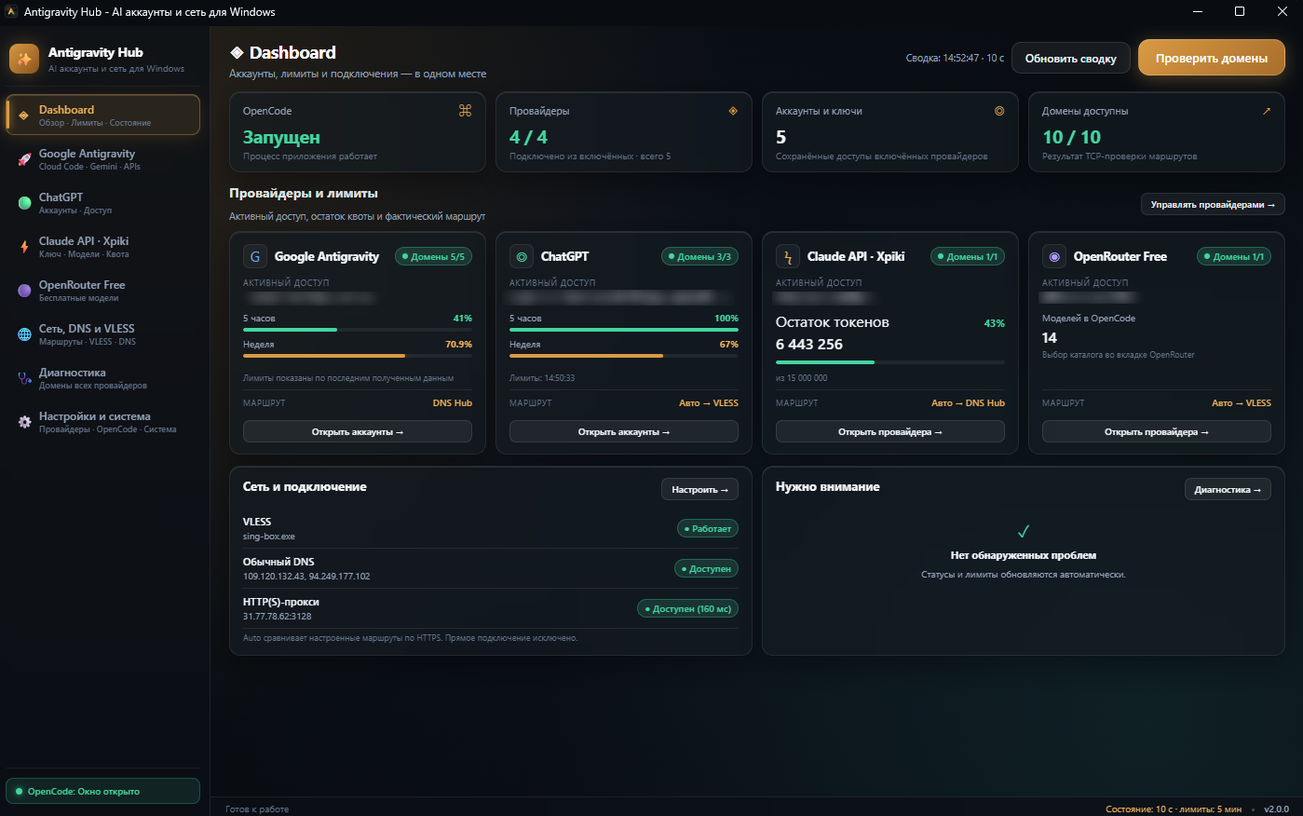
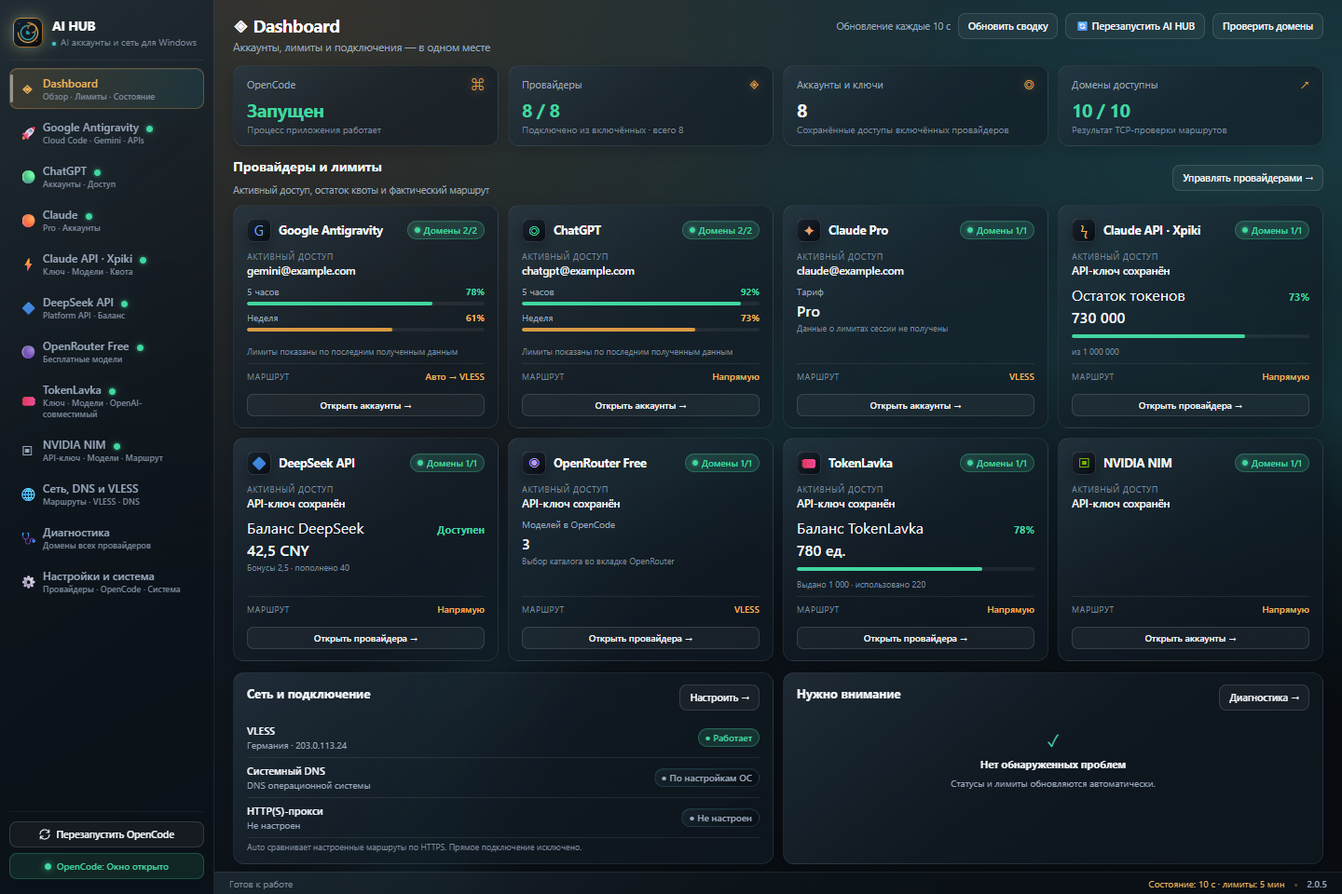
docs: refresh AI HUB overview and dashboard screenshot

diff --git a/README.md b/README.md
@@ -1,350 +1,50 @@
-# AI HUB — шлюз провайдеров для OpenCode (V2)
+# AI HUB для OpenCode 2.x
 
-Универсальный шлюз-модуль и графический центр управления (**AI HUB**) для [OpenCode 2.x](https://github.com/anomaly/opencode). Объединяет доступ к передовым нейросетям через несколько провайдеров, поддерживает пулы аккаунтов с авто-ротацией, веб-сессии без API-ключей, встроенное VLESS-туннелирование и раздельный мониторинг лимитов. Приложение позволяет подключать сторонние провайдеры к OpenCode: Google, OpenAI, Claude, Xpiki, OpenRouter, TokenLavka, NVIDIA NIM и другие OpenAI-совместимые шлюзы — через единый графический интерфейс.
+AI HUB — приложение для Windows, в котором можно подключать AI-провайдеров к OpenCode, переключать аккаунты, смотреть лимиты и проверять сетевые маршруты.
 
-<p align="center">
-  <img src="docs/dashboard.png" alt="AI HUB Dashboard" width="900" />
-</p>
+![Главное окно AI HUB с карточками провайдеров и состоянием сети](docs/dashboard.png)
 
----
+*Актуальный интерфейс с демонстрационными данными.*
 
-## 🌟 Ключевые возможности
+## Установка
 
-### 1. 🚀 Google Antigravity (OAuth & Multi-Account Pool)
-- **Модели нового поколения:** Google Gemini 4 Hydrogen, Gemini 4 Argon, Gemini 3.8 Flash, Claude Sonnet 4.6 Thinking, Claude 5.5 и другие модели Cloud Code. Устаревшие и отключённые Google модели (3.1, 3.5, 3.6, 3.7) автоматически фильтруются.
-- **Пул Google-аккаунтов:** Добавляйте неограниченное количество аккаунтов Google с автоматическим переключением при исчерпании квот (Rate Limit 429). Мгновенное обновление статуса аккаунтов в интерфейсе.
-- **Раздельный учет лимитов:** Наглядная индикация двух типов квот:
-  - 🟢 **Зеленый индикатор** — текущая 5-часовая скользящая квота (краткосрочный лимит).
-  - 🟠 **Оранжевый индикатор** — недельная суммарная квота аккаунта.
-- **Защита от истощения пула:** Если подключён только один Google-аккаунт, плагин интеллектуально ожидает сброса лимита до 60 секунд вместо немедленной остановки работы.
-- **Интерактивная диагностика:** Встроенная проверка здоровья моделей (Model Health Checker) прямо из Hub с выявлением скрытых ошибок потоковой передачи и диагностикой маршрутов.
-- **Умные патчи стабильности:**
-  - Защита от бесконечного цикла повторов при ошибке 404 — немедленный возврат оригинального ответа Google.
-  - Автоматическая фиксация модели именования сессий `opencode/big-pickle` (`small_model` и `agent.title.model`), предотвращающая сбои из-за недоступных моделей Gemini 3.5.
-  - Патчи потоковой передачи и совместимости терминала (Gemini 3.8 / SSE / TTY).
-- **Поддержка современных версий OpenCode:** Совместимость со всеми релизами линейки 2.x, включая структуру установки OpenCode 2.2.0 (`ai.opencode.desktop`).
+**Windows 10/11 x64:** скачайте `AntigravityHub-Setup-x64.exe` со страницы [последнего релиза](https://github.com/ZLoBNbIY/Opencode-antigravity-module/releases/latest). Установщик не подписан; рядом опубликован SHA‑256 для проверки файла. Git, Python и Node.js не нужны. [OpenCode 2.x](https://opencode.ai/) устанавливается отдельно.
 
-### 2. 🟢 OpenAI / ChatGPT (Многоаккаунтный пул и вход через браузер)
-- **Прямой вход в 1 клик:** Авторизация через браузер без необходимости вручную извлекать и обновлять сессионные токены.
-- **Пул аккаунтов ChatGPT:** Добавление нескольких аккаунтов OpenAI с отображением email, мгновенным переключением активного профиля и синхронизацией с OpenCode.
-- **Интеграция с официальным провайдером:** Запросы транслируются напрямую в OpenCode с поддержкой последних моделей GPT.
+<details>
+<summary>Запуск из исходников</summary>
 
-### 3. 🟠 Claude Code / Pro & Team (Подписка без API-токенов)
-- **Прямой бридж веб-подписки:** Используйте возможности платной подписки Claude Pro или Claude Team в OpenCode без необходимости покупать дорогие токены Anthropic API.
-- **Локальный мост (Claude Bridge):** Поднимает локальный шлюз (`http://127.0.0.1:51186`), который преобразует запросы OpenCode в сессионные запросы `claude.ai`.
-- **Вход в 1 клик и тихий рефреш:** Автоматический вход через браузер с мгновенным извлечением cookie `sessionKey` и фоновым обновлением сессии. Автоматическое закрытие окна сессии при ошибках рефреша. Также поддерживается ручной ввод токена.
-- **Безопасная авторизация через VLESS:** Предупреждение перед открытием окна авторизации при выключенном VLESS для защиты от геоблокировок Cloudflare/Anthropic. Возможность запустить браузер входа через изолированный прокси-туннель.
-- **Claude Kill Switch:** Специализированный механизм блокировки запросов в случае обрыва туннеля для предотвращения утечки реального IP и бана аккаунта.
-- **Интеграция с Claude Code CLI:** Быстрый запуск `claude setup-token` прямо из интерфейса Hub.
-
-### 4. ⚡ Claude API (Xpiki Gateway)
-- **Выделенный провайдер Xpiki:** Готовая интеграция со сторонним шлюзом Claude API (`api.xpiki.com`).
-- **Модели:** `claude-opus-5`, `claude-opus-4-8`, `claude-opus-4-7`, `claude-sonnet-5`, `claude-sonnet-4-6`, `claude-haiku-4-5`, `claude-fable-5`.
-- **Живая карточка квот:** Отображение баланса, доступных кредитов, остатка запросов и времени до ежедневного сброса лимитов в реальном времени.
-- **Конфигурация в 1 клик:** Мгновенное добавление провайдера и выбранных моделей в конфигурацию OpenCode.
-
-### 5. 🟣 OpenRouter Free
-- **Бесплатные модели:** Подключение открытых бесплатных моделей из каталога OpenRouter по вашему бесплатному API-ключу.
-- **Выборочный каталог:** Выбирайте только нужные модели, исключая захламление списка в OpenCode.
-
-### 6. 🎟 TokenLavka (OpenAI-совместимый шлюз)
-- **Один ключ на все модели:** Claude, GPT, Gemini, Grok, DeepSeek, Kimi, Qwen и GLM через `https://tokenlavka.com/v1`.
-- **Проверка ключа:** валидация через `GET /v1/models` с понятными сообщениями об ошибках (401/402/429).
-- **Выборочный каталог:** статический список моделей шлюза, отметка нужных и добавление в OpenCode в один клик.
-- **Изолированный провайдер:** `tokenlavka/…` через `@ai-sdk/openai-compatible`, не заменяет встроенные провайдеры OpenCode.
-
-### 7. 🌐 Сеть: Автовыбор маршрута (Auto), VLESS и глубокая диагностика
-- **Умный автовыбор маршрута (AutoRouter):** Измерение доступности и задержки для каждого провайдера по отдельности (Google, OpenAI, Claude, Xpiki, OpenRouter). Система автоматически отбирает самый быстрый рабочий сетевой путь и переключается на резервный при сбоях без использования прямого подключения.
-- **Углубленная проверка API и генерации (Deep Probe) в 1 клик:**
-  - Специальные ручные кнопки (`⚡ Проверить генерацию` для Google, `⚡ Проверить сессию` для ChatGPT/Claude, `⚡ Проверить ключ` для Xpiki/OpenRouter) на карточках провайдеров и вкладке «Диагностика».
-  - Позволяют мгновенно выявить скрытые проблемы реального ответа моделей: ошибку `HTTP 400 Region not supported` у Google, геоблокировку датацентров, исчерпание лимитов запросов на IP-адрес (`429 Rate Limit`), недействительные сессии или блокировки Cloudflare.
-  - Запускаются **исключительно вручную**, исключая фоновый расход токенов.
-- **Поканальная маршрутизация (Per-Provider Routing):** Раздельная настройка сетевого пути для каждого провайдера (Google, Claude, OpenAI, Xpiki, DeepSeek API, OpenRouter): Auto, VLESS, внешний прокси, DNS-прокси Hub или прямое подключение.
-- **Баланс DeepSeek Platform API:** Вкладка DeepSeek в Hub хранит `sk-` ключ в защищённом хранилище и показывает остаток средств, бонусы и пополнения через официальный `GET /user/balance`. Баланс обновляется каждые 5 минут, при ошибке сохраняется последнее известное значение (без выдуманных лимитов). Ниже строится график расхода денег и токенов по локальной базе OpenCode за 7/14/30 дней; деньги считаются по официальному тарифу DeepSeek в валюте баланса. Подробнее — [docs/deepseek.md](docs/deepseek.md).
-- **Встроенный туннель VLESS:** Поддержка Xray-core и sing-box. На Windows x64 Hub загружает зафиксированные версии из официальных релизов по HTTPS и проверяет SHA-256. На других платформах укажите путь к ядру, проверенному вручную.
-- **Изоляция сетевых портов:** Использование выделенных локальных портов (`20809` HTTP, `20808` SOCKS5 по умолчанию; также поддерживаются `10879`/`10878`) для полного исключения конфликтов с браузерными расширениями и другими VPN-клиентами.
-- **Управление ядрами:** Hub останавливает только запущенный им дочерний процесс. Если порт занят, выберите другой порт или самостоятельно остановите процесс, которому он принадлежит.
-- **Безопасный DNS и готовые Smart DNS пресеты:** Тестирование и быстрое переключение защищённых серверов в 1 клик:
-  - **DNS-AI (`dns-ai.ru`)** — специализированный Smart DNS для работы с AI в РФ и РБ (`https://dns.dns-ai.ru/dns-query`, `194.87.196.13`);
-  - **MagicDNS (`magicdns.ru`)** — высокоскоростной Smart DNS для ИИ к Gemini, ChatGPT и Claude (`https://dns.magicdns.ru/dns-query`, `109.120.132.43`);
-  - **Bezmezhau (`bezmezhau.com`)**;
-  - **Cloudflare**, **Google**, **Quad9**.
-- **Обновления Hub:** Репозиторий обновляется только при чистом рабочем дереве и возможности fast-forward. Скрипты из полученной версии не запускаются автоматически. Подписи коммитов не проверяются — просмотрите изменения до запуска обновлённой версии.
-
-### 7. 🎨 Графический менеджер AI HUB
-- **Дизайн Frosted Glass (Вариант №3):** Премиальный тёмный интерфейс с аппаратным матовым стеклом (`backdrop-filter: blur(40px)`), глубоким графитовым фоном и янтарно-бирюзовыми неоновыми ореолами (aurora glow), работающий на нативном движке WebView2 (Edge Chromium).
-- **Компактный адаптивный Dashboard:** Вся ключевая информация (метрики системы, карточки провайдеров, статусы сети и внимания) оптимизирована и полностью помещается в окно без вертикальной прокрутки.
-- **Полноценная индикация лимитов:**
-  - 🟢 **Gemini (5 часов)** — изумрудный индикатор скользящей квоты.
-  - 🟠 **Gemini (Неделя)** — контрастный янтарный индикатор недельного лимита.
-  - 🔷 **Claude Opus / Sonnet в Google Antigravity** — раздельный мониторинг квот для моделей Claude (Opus / Sonnet) с бирюзовой и фиолетовой подсветкой.
-  - ⚡ **Claude API (Xpiki)** — шкала прогресса и процент остатка токенов прямо на дашборде и во вкладке провайдера.
-- **Пул HTTP(S)-прокси с авторотацией (Failover):** Поддержка добавления нескольких внешних прокси в общий пул с открытым отображением адреса, автоматической проверкой доступности, измерением пинга и мгновенным переключением на следующий узел при сбое.
-- **Интеграция с Windows:**
-  - Фирменная тёмная иконка AI HUB на Рабочем столе и в панели задач (без дефолтной иконки Python).
-  - Тёмный заголовок окна под цвет интерфейса (без белой системной полосы).
-  - Сворачивание в системный трей вместо выхода при клике на крестик окна (с настройкой поведения в меню).
-  - Автоматический запуск AI HUB при входе в Windows (переключатель в «Настройках и система», запись HKCU → Run без прав администратора).
-  - Проверка обновлений на GitHub и обновление чистого клона без принудительного сброса.
-- **Единое изолированное хранилище (%APPDATA%\AntigravityHub):** Все изменяемые данные приложения (аккаунты, VLESS-ядра, логи, токены, профили браузеров) собраны в одном изолированном каталоге.
-- **Встроенный центр очистки и полного удаления:** В разделе «Настройки и система» доступен мониторинг занятого места на диске, открытие папки в Проводнике, очистка кэша/логов, сброс сессий браузера и кнопка безопасного полного удаления Hub (не затрагивает OpenCode и историю чатов).
-- **Восстановление патча плагина в 1 клик:** кнопка «Применить фикс плагина» в «Настройки и система» заново накладывает фикс ложного `429` Cloud Code (Code Mode) и маршрутизацию Hub после обновления OpenCode или плагина Antigravity — без полной переустановки.
-- **Резервное копирование и перенос на другой ПК:** Hub экспортирует поддерживаемые аккаунты и сетевые настройки в зашифрованный файл с паролем. Данные сторонних плагинов и самого OpenCode не входят в резервную копию автоматически.
-
----
-
-## 🛠 Как это работает
-
-```
-  ┌─────────────────────────────────────────────────────────┐
-  │                       OpenCode                          │
-  └───────────────────────────┬─────────────────────────────┘
-                              │
-                    Плагин Antigravity V2
-                              │
-        ┌─────────────────────┼─────────────────────┐
-        ▼                     ▼                     ▼
-┌──────────────┐      ┌──────────────┐      ┌──────────────┐
-│Google/OpenAI │      │    Claude    │      │   Сторонние  │
-│ Antigravity  │      │ Subscription │      │     API      │
-│ Account Pool │      │ Bridge:51186 │      │   (Xpiki /   │
-│      │       │      │              │      │  OpenRouter) │
-└──────┼───────┘      └───────┬──────┘      └──────┬───────┘
-       ▼                      │                    │
-┌──────────────┐              │                    │
-│Hub Dispatcher│              │                    │
-│ 127.0.0.1:   │              │                    │
-│    10880     │              │                    │
-└──────┬───────┘              │                    │
-       │                      │                    │
-       └──────────────────────┼────────────────────┘
-                              ▼
-                ┌───────────────────────────┐
-                │   Поканальная маршрутизация│
-                 │(VLESS / Proxy / Direct)  │
-                └───────────────────────────┘
-```
-
-1. **Плагин OpenCode (`plugin/dist/`):** Интегрируется в среду выполнения OpenCode, перехватывает запросы к выбранным моделям и направляет их через соответствующий бэкенд. Включает патчи против зацикливания при ошибках 404, поддержку TTY/SSE и авто-фиксацию модели заголовков `opencode/big-pickle`.
-2. **Ротация аккаунтов Google:** При получении статуса `429 Too Many Requests` плагин мгновенно переключает рабочий контекст на следующий свободный аккаунт из пула `antigravity.json`. Если подключён один аккаунт — интеллектуально ожидает восстановления квоты (до 60 секунд).
-3. **Диспетчер Hub (`127.0.0.1:10880`):** Запросы к Google Cloud Code API транслируются через локальный диспетчер Hub. Сетевой путь для Google можно настроить независимо от остальных сервисов: напрямую, через туннель VLESS, внешний HTTP-прокси или DNS-прокси Hub.
-4. **Claude Subscription Bridge:** Для пользователей Claude Pro/Team поднимается локальный сервер на порту `51186`. Он принимает сообщения формата OpenAI/Anthropic и перенаправляет их в веб-сессию Claude. Поддерживаются Claude Kill Switch и предупреждение при запуске без VLESS.
-5. **VLESS & Сетевая изоляция:** Встроенный менеджер контролирует только собственный изолированный дочерний процесс Xray/sing-box и использует выделенные порты (`20809` HTTP, `20808` SOCKS5 / `10879`, `10878`), что исключает конфликты с браузерными расширениями и другими VPN-клиентами. Сторонние системные процессы ядра никогда не завершаются. Проверка и скачивание обновлений Hub с GitHub выполняются всегда напрямую через системную сеть в обход прокси.
-
----
-
-## 📦 Установка
-
-### Windows
-
-**Готовый установщик (Windows 10/11 x64):** скачайте `AntigravityHub-Setup-x64.exe` со страницы [Releases](https://github.com/ZLoBNbIY/Opencode-antigravity-module/releases), когда он опубликован, и запустите двойным щелчком. Git, Python, Node.js и PowerShell пользователю не нужны. WebView2 устанавливается автоматически, если отсутствует (в этом случае нужен интернет). Сам OpenCode устанавливается отдельно.
-
-После успешной сборки и теста установки каждый пуш в `V2` автоматически публикует следующий патч-релиз (`v2.0.1`, `v2.0.2`, …) с установщиком и файлом SHA‑256.
-
-Установленная копия запускается из меню «Пуск» и не зависит от Git-клона. Для обновления используйте новый `Setup.exe`; для удаления — «Установленные приложения» Windows. Деинсталляция сохраняет аккаунты Hub и настройки OpenCode.
-
-### Windows — установка из исходников
-
-Получите локальную копию проекта из доверенного источника, проверьте ревизию и просмотрите установщик перед его запуском. Не передавайте скачанный скрипт напрямую в `iex`.
-
-Установщик:
-- **Интеллектуальная проверка Python 3:** Функция глубокого сканирования `Get-PythonEnvironment` отсекает фиктивную заглушку Microsoft Store (`WindowsApps\python.exe`, вызывающую ошибку 9009), опрашивает лаунчер `py`, проверяет стандартные каталоги (`Programs\Python`, `Program Files`, `C:\Python3*`) и при необходимости временно прописывает путь к Python в текущую сессию.
-- **Диагностика и рекомендации:** Если Python не установлен, установщик не падает, а выводит понятное сообщение с прямой ссылкой на загрузку (`https://www.python.org/downloads/`), командой для терминала `winget install Python.Python.3.12` и напоминанием включить галочку **«Add python.exe to PATH»**.
-- **Node.js:** Для проверки патчей требуется Node.js 20+. Установщик может предложить установку через WinGet; не загружает MSI напрямую.
-- **Конфигурация OpenCode:** Установщик создаёт недостающие конфиги, но не перезаписывает существующие `opencode.json` или `opencode.jsonc`. Сверьте существующую конфигурацию с шаблоном и добавьте нужные настройки вручную.
-- **Зависимости Python:** Для Windows x64 с CPython 3.12 используется lock-файл с контрольными суммами. Другие платформы пока используют обычный список зависимостей; lock-файл также не фиксирует изолированные сборочные зависимости исходных пакетов.
-- **Ярлык запуска:** Создает удобный ярлык на рабочем столе **AI HUB**.
-
-### Windows — из клонированного репозитория
+Понадобятся Git, Python 3.12 и Node.js 20+.
 
 ```powershell
 git clone -b V2 https://github.com/ZLoBNbIY/Opencode-antigravity-module.git
 cd Opencode-antigravity-module
-powershell -ExecutionPolicy Bypass -File .\install.ps1
+.\install.bat
 ```
 
-*(Также доступен скрипт `install.bat` с автоматическим переходом на PowerShell и валидацией окружения).*
+Сборка своего установщика: [инструкция](packaging/windows/README.md).
 
-### Linux / macOS
+</details>
 
-```bash
-git clone -b V2 https://github.com/ZLoBNbIY/Opencode-antigravity-module.git
-cd Opencode-antigravity-module
-chmod +x install.sh
-./install.sh
-```
+## Провайдеры
 
-### Перенос совместимости на другой ПК
+| Провайдер | Что доступно |
+| --- | --- |
+| Google Antigravity | OAuth, пул аккаунтов, переключение при исчерпании квоты, мониторинг лимитов |
+| OpenAI / ChatGPT | Вход через браузер, переключение аккаунтов, синхронизация с OpenCode, лимиты подписки |
+| Claude Pro / Team | Локальный мост для веб-подписки `claude.ai` |
+| Xpiki | Модели Claude через API и мониторинг квоты |
+| OpenRouter Free | Выбор бесплатных моделей из каталога |
+| [DeepSeek](docs/deepseek.md) | API, баланс платформы и график расходов по данным OpenCode |
+| [TokenLavka](docs/tokenlavka.md) | Выбор моделей шлюза и остаток баланса |
+| [NVIDIA NIM](docs/nvidia-nim.md) | Подключение API-ключа и выбор моделей |
 
-Все патчи тела/заголовков Antigravity лежат в репозитории и применяются
-отдельным скриптом. На другом ПК достаточно:
+Откройте вкладку провайдера, добавьте аккаунт или ключ, затем выберите его модель в OpenCode.
 
-1. Скопировать/склонировать репозиторий **вместе с изменениями**
-   (`plugin/dist`, `gui-manager/cloudcode_route_patch.py`,
-   `scripts/patch_plugin.mjs`). Запускайте `install.ps1` из проверенной локальной копии.
-2. Закрыть OpenCode.
-3. Запустить:
+## Маршрутизация
 
-   ```powershell
-   .\apply_antigravity_compat.bat
-   ```
+- Для провайдеров Hub маршрут выбирается отдельно: **напрямую, VLESS, DNS Hub, внешний HTTP(S)-прокси или Auto**. В Auto прямой маршрут не участвует. [Подробнее](docs/auto-routing.md).
+- **Встроенные модели OpenCode (`opencode/*`), каталог и провайдеры вне Hub обходят прокси Hub.** Системный VPN, DNS и отдельно настроенные прокси не меняются.
+- VLESS поддерживает Xray и sing-box. На главном экране видны маршруты, доступность доменов и лимиты; проверка реальной генерации запускается вручную.
+- Если обновляетесь с версии, которая назначала общий прокси, сначала перезапустите **AI HUB**, затем **OpenCode** кнопкой в Hub, чтобы обновить окружение фонового сервера.
 
-   или:
-
-   ```powershell
-   powershell -ExecutionPolicy Bypass -File .\scripts\apply_antigravity_compat.ps1
-   ```
-
-   На Linux/macOS:
-
-   ```bash
-   sh scripts/apply_antigravity_compat.sh
-   ```
-
-Скрипт:
-- находит Python и Node.js (можно задать `ANTIGRAVITY_PYTHON` и
-  `ANTIGRAVITY_NODE`);
-- проверяет и при необходимости защищает механизм обновления плагина в локальном бандле через `scripts/patch_plugin.mjs`;
-- применяет Hub-маршрут и identity-патч
-  `gui-manager/cloudcode_route_patch.py`;
-- **не заменяет** установленный npm-пакет бандлом из репозитория. `scripts/patch_plugin.mjs` поддерживает только известные варианты версии `3.0.0`; для обработки отдельной установленной копии ей нужно явно передать путь к каталогу плагина. Полный набор правок локального бандла не переносится в npm-пакет автоматически.
-
-4. Перезапустить OpenCode.
-5. Проверить, что в Hub карточка «Патчи OpenCode и подпись сессий»
-   показывает активный фикс, либо запустить:
-
-   ```powershell
-   python gui-manager/cloudcode_route_patch.py status
-   ```
-
-То же самое можно сделать из интерфейса Hub без консоли:
-
-**Настройки → OpenCode и система → «Патчи OpenCode и подпись сессий» →
-«🧬 Применить патч Antigravity»**. Кнопка применяет identity-патч к
-установленному плагину; после изменения файлов Hub предложит перезапустить
-OpenCode.
-
-Если на другом ПК другая версия Antigravity, задайте перед запуском
-OpenCode:
-
-```powershell
-$env:ANTIGRAVITY_APP_VERSION="2.33.0"
-$env:ANTIGRAVITY_APP_CHANGE_LIST="1023160026"
-```
-
-Эти значения попадают в User-Agent. Если их не задать, используются
-`2.33.0` и `1023160026`.
-
----
-
-## 🚀 Быстрый старт
-
-1. **Запустите менеджер:**
-   - На Windows: запустите ярлык **AI HUB** с рабочего стола или файл `Запуск_Менеджера.bat`.
-   - В терминале: `python gui-manager/antigravity_manager.pyw` — откроется новый интерфейс Hub на WebView2.
-2. **Подключите провайдеров:**
-   - **Google Antigravity:** Нажмите **«+ Добавить Google-аккаунт»** и авторизуйтесь в браузере. Для устойчивости добавьте 2 или более аккаунтов.
-   - **OpenAI / ChatGPT:** Нажмите **«+ Добавить OpenAI»** во вкладке ChatGPT для авторизации через браузер.
-   - **Claude Pro / Team:** Откройте вкладку Claude, нажмите **«Войти через браузер»** (при необходимости включите галочку *«Использовать VLESS-браузер»*).
-   - **Xpiki / OpenRouter:** Вставьте API-ключ в соответствующей вкладке и нажмите **«Добавить в OpenCode»**.
-3. **Запустите OpenCode:**
-   - Нажмите кнопку **«🔄 Перезапуск OpenCode»** внизу боковой панели Hub.
-   - В интерфейсе OpenCode откройте выбор моделей: включите нужного провайдера (**Google**, **ChatGPT**, **Claude**, **Xpiki**, **OpenRouter Free**) и выберите желаемую модель.
-
----
-
-## 📖 Подробные инструкции по настройке провайдеров
-
-AI HUB выступает единой точкой подключения сторонних провайдеров к OpenCode: вы выбираете сервис и модель в интерфейсе, а Hub маршрутизирует запросы и синхронизирует конфигурацию OpenCode.
-
-### 1. Google Antigravity
-1. В AI HUB нажмите **«+ Добавить Google-аккаунт»** (или выполните в консоли `node plugin/dist/cli.js login`).
-2. В открывшемся окне браузера подтвердите вход в Google-аккаунт.
-3. Аккаунт появится в списке Hub с двумя полосами квот:
-   - **Зелёная** — 5-часовой лимит (обновляется скользящим окном);
-   - **Оранжевая** — недельный лимит.
-4. Для максимальной надежности добавьте 2–3 аккаунта — плагин будет автоматически ротировать их при наступлении лимитов (Rate Limit 429).
-5. При нажатии кнопки **«Проверить модели» (Health Check)** запускается проверка доступности текущих моделей в реальном времени.
-
-### 2. OpenAI / ChatGPT (Аккаунты ChatGPT)
-1. В AI HUB перейдите на вкладку **ChatGPT (OpenAI)**.
-2. Нажмите **«+ Добавить OpenAI»** — откроется браузер для авторизации в вашем аккаунте OpenAI.
-3. После успешного входа аккаунт появится в карточках списка с отображением привязанного email.
-4. Вы можете подключать несколько аккаунтов ChatGPT и в 1 клик переключать активный профиль для OpenCode.
-
-### 3. Claude Pro / Team (Подписка claude.ai без API-токенов)
-1. Если вы находитесь в регионе с блокировками Anthropic / Cloudflare:
-   - Вставьте вашу ссылку `vless://` во вкладке **🌐 Сеть, DNS & VLESS** и включите туннель.
-   - Включите переключатель **«Использовать VLESS-браузер»** на вкладке Claude.
-2. Нажмите **«Войти через браузер»**. Откроется окно входа `claude.ai`.
-3. После успешного входа Hub сохранит сессию, закроет окно и запустит локальный Claude Bridge (`51186`).
-4. Для защиты от случайных разрывов туннеля включите **Claude Kill Switch** — он мгновенно заблокирует запросы в случае потери соединения с прокси.
-5. Выберите нужные модели (Opus 5, Sonnet 5, Sonnet 4.6, Claude 3.7 Sonnet Thinking) и нажмите **«Добавить выбранные в OpenCode»**.
-
-### 4. Claude API (Xpiki Gateway)
-1. Получите API-ключ на шлюзе [Xpiki](https://api.xpiki.com).
-2. В AI HUB откройте вкладку **Claude API (Xpiki)** и вставьте ключ.
-3. Hub отобразит статус ключа, баланс, лимиты запросов и таймер суточного сброса квоты.
-4. Отметьте флажками нужные модели и нажмите **«Добавить выбранные в OpenCode»**.
-5. Модели станут доступны в OpenCode в провайдере `xpiki/` (например, `xpiki/claude-opus-5`).
-
-### 5. OpenRouter Free
-1. Зарегистрируйтесь на [openrouter.ai](https://openrouter.ai/) и сгенерируйте бесплатный ключ на странице [API Keys](https://openrouter.ai/settings/keys).
-2. Во вкладке **OpenRouter Free** вставьте ключ и нажмите **«Проверить ключ и загрузить модели»**.
-3. Отметьте интересующие бесплатные модели и добавьте их в OpenCode.
-4. При этом встроенный каталог платных моделей OpenRouter временно скрывается, оставляя только выбранные бесплатные модели.
-
-### 6. TokenLavka
-1. Купите ключ `sk-…` у продавца (выдаётся вместе с доступом к [tokenlavka.com](https://tokenlavka.com/)).
-2. В AI HUB откройте вкладку **🎟 TokenLavka**, вставьте ключ и нажмите **«Проверить ключ»**.
-3. Отметьте нужные модели шлюза и нажмите **«Добавить выбранные в OpenCode»**.
-4. Модели станут доступны в OpenCode в провайдере `tokenlavka/` (например, `tokenlavka/gpt-6-luna`).
-5. Ключ хранится в зашифрованном виде в `%APPDATA%\AntigravityHub\secure\tokenlavka.json` и дублируется в хранилище учётных данных OpenCode. Отключение удаляет оба.
-
-### 7. Сетевые маршруты, автовыбор Auto и углубленная диагностика
-1. Откройте вкладку **🌐 Сеть, DNS & VLESS**.
-2. В блоке **«Сетевая маршрутизация провайдеров»** вы можете выбрать индивидуальный путь для каждого сервиса:
-   - **Автовыбор (Auto):** автоматическое измерение доступности и задержки с выбором лучшего канала без прямого подключения.
-   - **Google Antigravity:** «Auto», «VLESS-туннель», «DNS Hub», «Напрямую» или «Внешний прокси».
-   - **Claude (Subscription):** «VLESS-туннель» (рекомендуется при блокировках), «Auto», «Напрямую» или «Внешний прокси».
-   - **OpenAI / Сторонние API:** «Auto», «VLESS-туннель», «DNS Hub» или «Напрямую».
-3. **Углубленная проверка реальной генерации (Deep Probe):**
-   - На карточке каждого провайдера и во вкладке **«Диагностика»** используйте кнопки **«⚡ Проверить генерацию»** (Google) или **«⚡ Проверить сессию / ключ»** (ChatGPT, Claude, Xpiki, OpenRouter).
-   - В отличие от быстрой сетевой проверки доступности портов, этот тест отправляет короткий валидационный запрос и мгновенно выявляет ошибку региона `HTTP 400 Region not supported`, гео-блокировку серверного IP, исчерпание лимитов на подсеть (`429`) или недействительные cookie/токены.
----
-
-## ⚠ Ограничения и важные нюансы
-
-| Компонент | Ограничение / Особенность | Рекомендация |
-|---|---|---|
-| **Python в Windows** | Заглушка `WindowsApps\python.exe` не является интерпретатором и завершается ошибкой при попытке запуска хаба. | Устанавливайте Python 3 (3.10–3.12) с сайта [python.org](https://www.python.org/downloads/) с обязательной галочкой **«Add python.exe to PATH»** или командой `winget install Python.Python.3.12`. |
-| **Google Antigravity** | Квоты делятся на 5-часовые скользящие и недельные. Доступность экспериментальных моделей (Claude 5.5, Gemini 4 Argon) контролируется серверами Google. | Подключайте 2–3 аккаунта для непрерывной работы. При одном аккаунте подождите до 60 секунд при получении Rate Limit. |
-| **Claude Pro / Team Bridge** | Доступ предоставляется через сессионные куки `claude.ai`. Сессия зависит от проверок Cloudflare и политик Anthropic. | Для входа из регионов с блокировками используйте авторизацию через **VLESS-браузер** и активируйте **Claude Kill Switch**. Не злоупотребляйте частотой параллельных запросов во избежание блокировки веб-сессии. |
-| **Xpiki (Claude API)** | Лимиты запросов и доступность моделей регулируются балансом и условиями стороннего шлюза. | Следите за индикатором баланса и карточкой квот в Hub. |
-| **OpenRouter Free** | Бесплатные модели могут быть перегружены, иметь задержки или ограничения на вызов функций (Tool-calling) и зрение. | Для чисто текстовых моделей создавайте новый диалог без картинок в истории. |
-| **VLESS & Сеть** | Используются изолированные порты (`20809` HTTP, `20808` SOCKS5), чтобы не конфликтовать с системными VPN и браузерными расширениями. | При включённом VLESS системные DNS-настройки переопределяются DNS-маршрутизацией самого туннеля. Обновления Hub из GitHub скачиваются всегда напрямую. |
-| **Версия OpenCode** | Модуль спроектирован специально для архитектуры **OpenCode 2.x** (включая 2.2.0+). | Для старых версий OpenCode 1.x используйте архивную ветку `main`. |
-
----
-
-## 🔒 Безопасность и архитектура хранения данных
-
-- **Централизованное изолированное хранилище:** Все изменяемые данные AI HUB вынесены в отдельный каталог в Windows: `%APPDATA%\AntigravityHub\` (на Linux/macOS: `~/.config/AntigravityHub/`).
-  - `config/` — основные параметры маршрутизации и кэш доменов Gemini;
-  - `accounts/` — аккаунты OpenAI, Claude и шлюза Xpiki;
-  - `secure/` — зашифрованные системным DPAPI ключи OpenRouter;
-  - `bin/` — скачанные исполняемые ядра VLESS (`sing-box`, `xray`);
-  - `browser_profiles/` — профили веб-сессий авторизации браузера;
-  - `logs/` — журналы работы менеджера и диспетчера.
-- **Совместимость с OpenCode:** Hub синхронизирует `antigravity.json` с OpenCode. Для некоторых интеграций OpenCode также хранит собственные конфиги и учётные данные; не копируйте этот каталог в общедоступное место.
-- **Хранение секретов:** Для поддерживаемых хранилищ Hub использует DPAPI на Windows и закрытые файлы без шифрования на POSIX. Это не распространяется автоматически на записи самого OpenCode, старые копии, профили браузеров и ключи, переданные OpenCode ссылкой на файл.
-- **Служебный интерфейс диагностики (`health-token`):** Передает учетные данные через защищённый IPC-канал процесса и никогда не выводит секреты в общий журнал логов.
-- **Резервные копии:** Сохраняйте пароль отдельно от зашифрованного экспорта. Старые JSON-копии могут содержать токены и ключи открытым текстом; не передавайте их третьим лицам.
-- **Удаление:** Перед удалением проверьте путь и отключите подключённые в Hub аккаунты и провайдеры. Учётные записи, установленные непосредственно в OpenCode, и исходный клон проекта могут остаться.
-- **Никогда не публикуйте и не передавайте третьим лицам файлы `antigravity.json`, `openai-accounts.json` и `xpiki.json`!**
-
----
-
-## 📄 Лицензия
-
-Проект распространяется под лицензией [MIT](LICENSE). Сторонние утилиты и ядра (Xray-core, sing-box) распространяются под собственными лицензиями их авторов.
+Настройки и аккаунты Hub хранятся в `%APPDATA%\AntigravityHub`. Для переноса используйте зашифрованный экспорт из приложения; не публикуйте конфиги, содержащие токены и адреса прокси.
